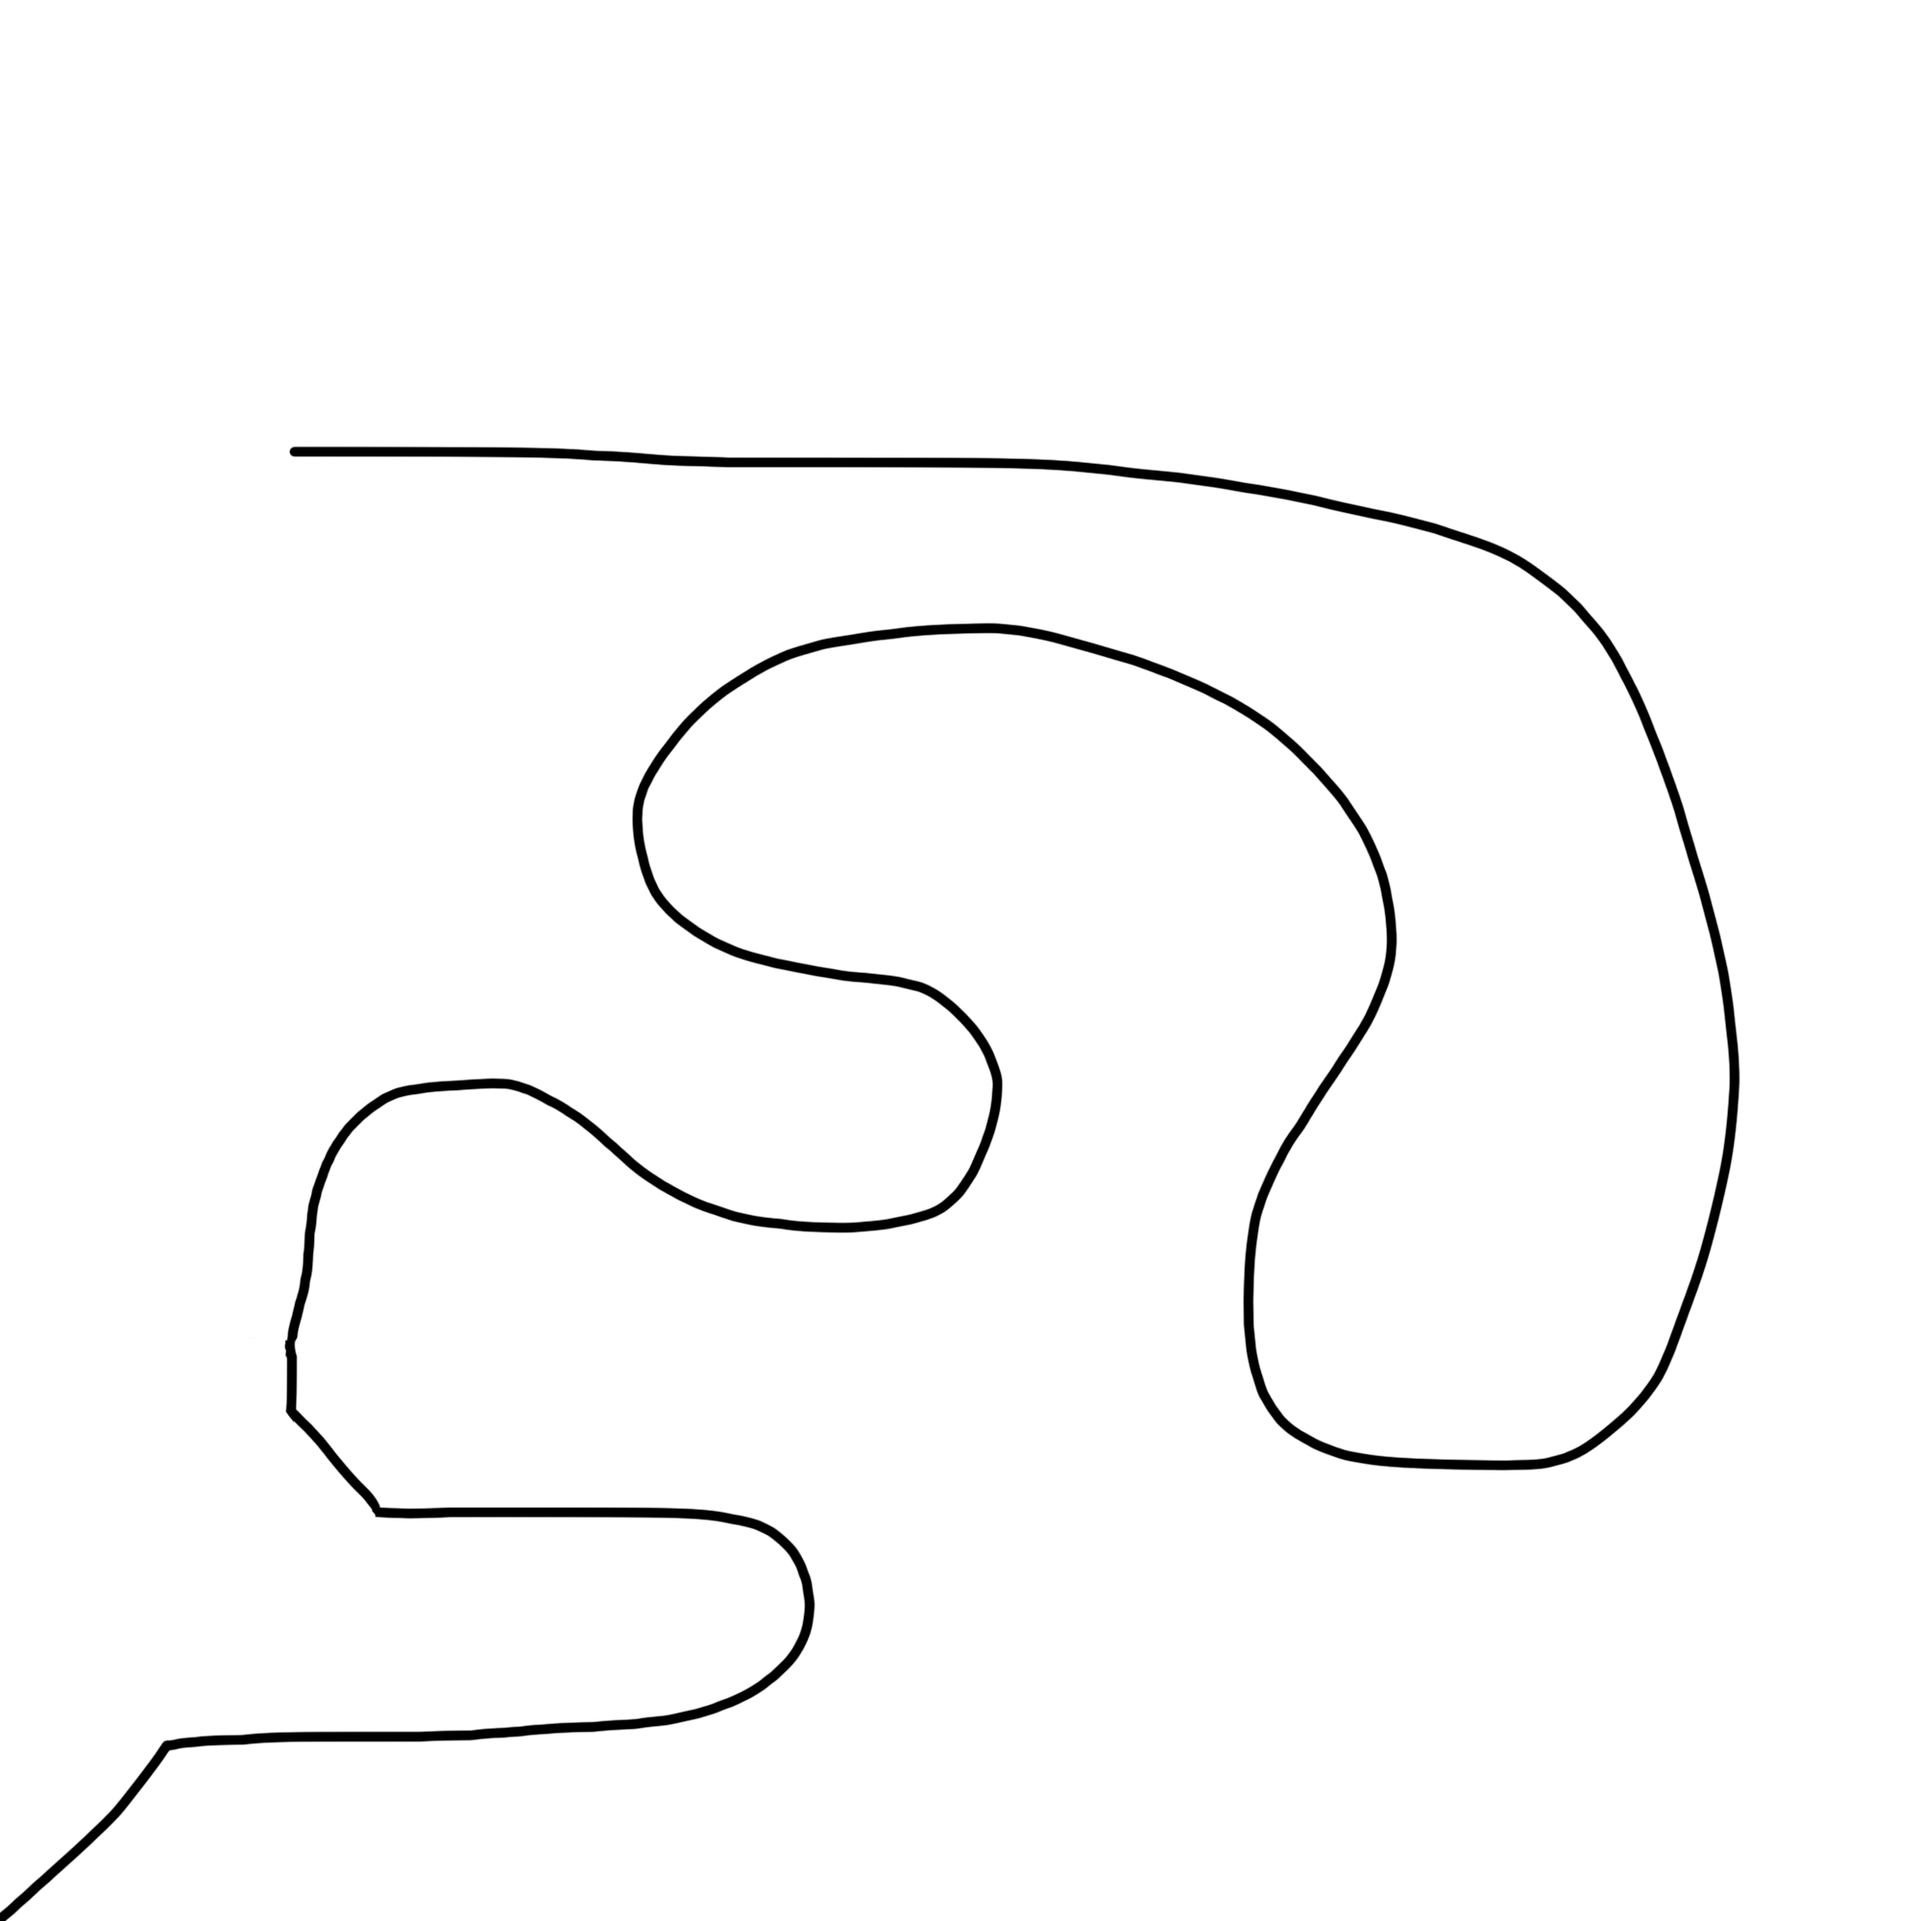
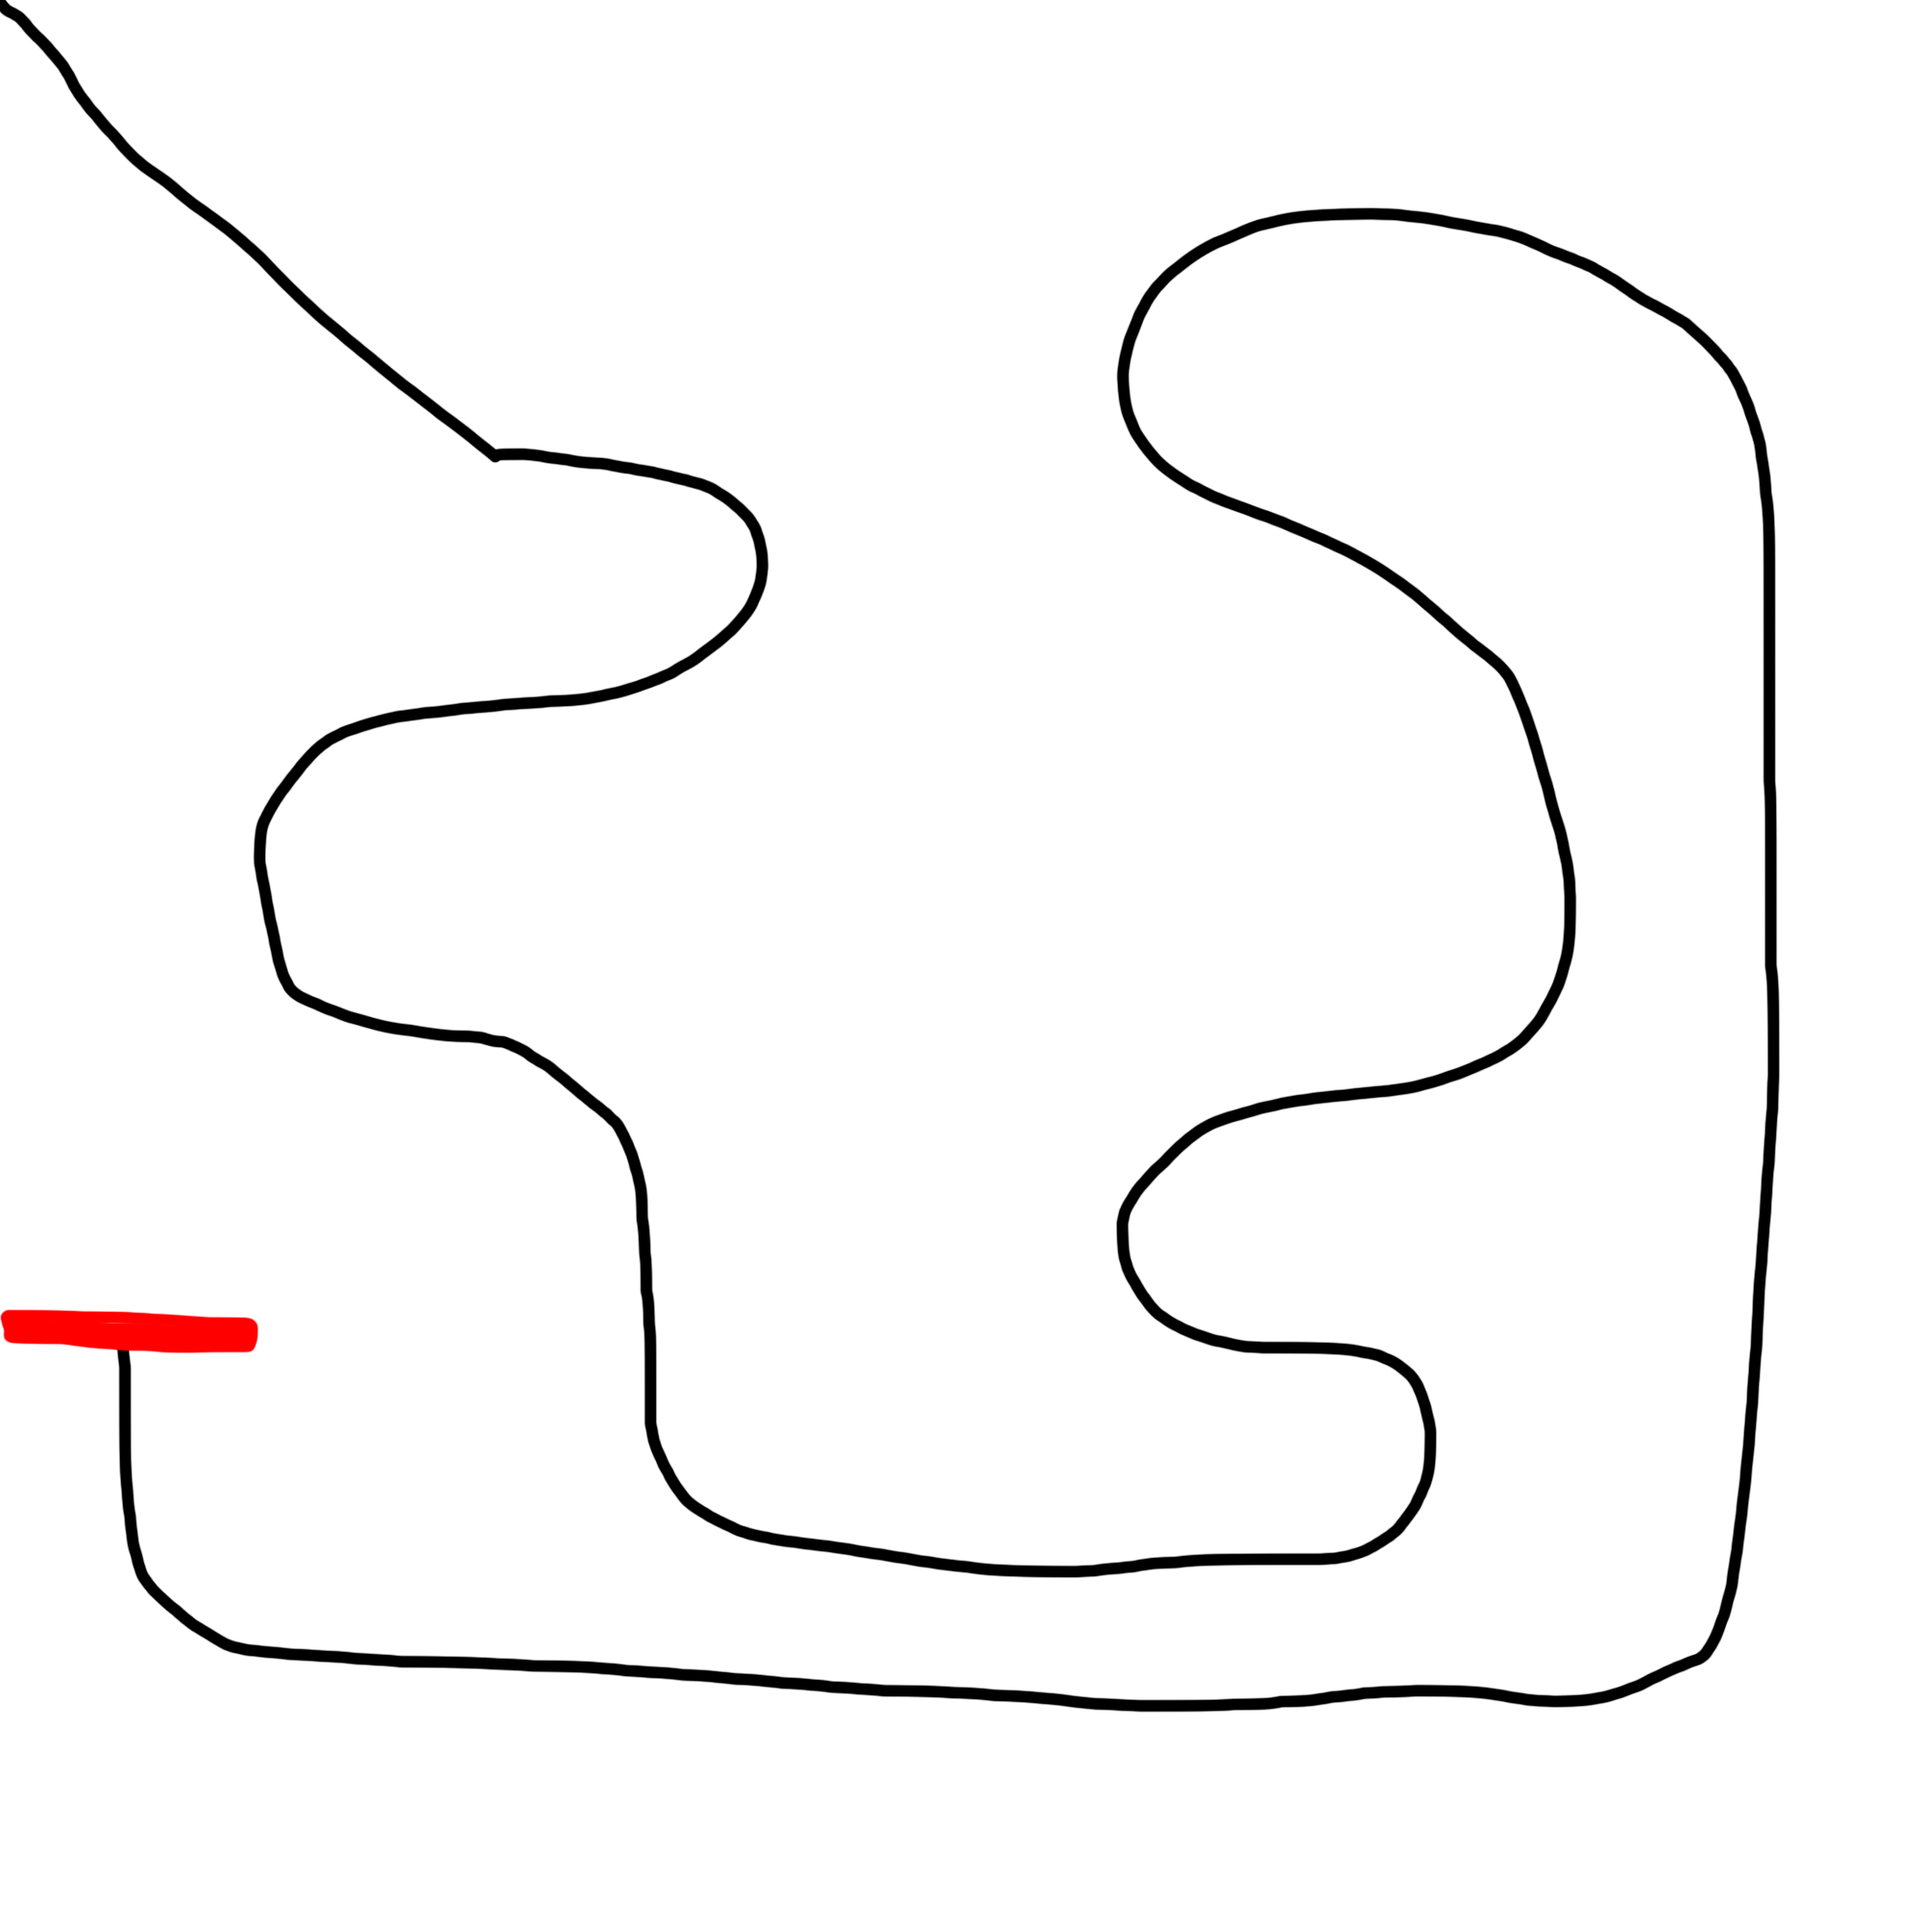
add example

diff --git a/src/robot_simulation.py b/src/robot_simulation.py
@@ -26,16 +26,16 @@ DEFAULT_ROBOT_WIGHT: float = 17
 DEFAULT_PPI: int = 17
 
 # the default maximum speed of the robot (in cm/s)
-DEFAULT_MAX_SPEED: float = 10.
+DEFAULT_MAX_SPEED: float = 20.
 
 # the default starting position of the robot presented in cm
-DEFAULT_START_POS_X: float = 0.
+DEFAULT_START_POS_X: float = 20.
 
 # the default starting position of the robot presented in cm
-DEFAULT_START_POS_Y: float = 0.
+DEFAULT_START_POS_Y: float = 20.
 
 # the default starting angle of the robot presented in radiant
-DEFAULT_START_ANGLE: float = 0.
+DEFAULT_START_ANGLE: float = -np.pi*3/4
 
 # the resolution of the top view
 DEFAULT_TOP_VIEW_RES_X: int = 1100
@@ -87,6 +87,9 @@ class Robot:
             left (int): speed to set to the left motor, has to be in the -255 to 255 range
 
         """
+        right = int(right)
+        left = int(left)
+
         assert -255 <= right <= 255 and -255 <= left <= 255, "the speeds of the motor MUST be in the -255 to 255 range"
         self.__speed_right = right
         self.__speed_left = left
@@ -113,7 +116,7 @@ class Robot:
                 )
             ),
         )
-        theta = self.__angle
+        theta = -self.__angle
         width = self.__cm_to_pixel(self.__camera_x_dimension)
         height = self.__cm_to_pixel(self.__camera_y_dimension)
 
@@ -528,4 +531,4 @@ def test():
     # cv2.waitKey(1000000000)
 
 
-test()
+#test()

diff --git a/examples/example_1.py b/examples/example_1.py
@@ -1,0 +1,49 @@
+import sys
+import numpy as np
+import cv2
+sys.path.append('../src')
+from robot_simulation import Robot
+
+
+def main():
+    # create the instance of the robor
+    robot = Robot('../maps/map_1.png')
+
+    while True:
+        # get the image
+        img = robot.get_camera_view()
+
+        # convert it to gray
+        gray = cv2.cvtColor(img, cv2.COLOR_BGR2GRAY)
+
+        # apply a threshold
+        ret, gray = cv2.threshold(gray, 127, 255, cv2.THRESH_BINARY)
+
+        # count the black pixels to the right and to the left
+        black_pixels_dx = np.count_nonzero(255-gray[:, 32:])
+        black_pixels_sx = np.count_nonzero(255 - gray[:, :32])
+
+        delta = black_pixels_dx-black_pixels_sx
+
+        print(delta)
+
+        v_dx = 100 - delta/10,
+        v_sx = 100 + delta/10
+
+        v_dx = np.clip(v_dx, -255, 255)
+        v_sx = np.clip(v_sx, -255, 255)
+
+        robot.set_motors_speeds(
+            v_dx,
+            v_sx
+        )
+
+        cv2.imshow("view", cv2.resize(gray, (500, 500)))
+        cv2.waitKey(1)
+
+    # delete the robot, to stop the treads
+    robot.__del__()
+
+
+if __name__ == '__main__':
+    main()
